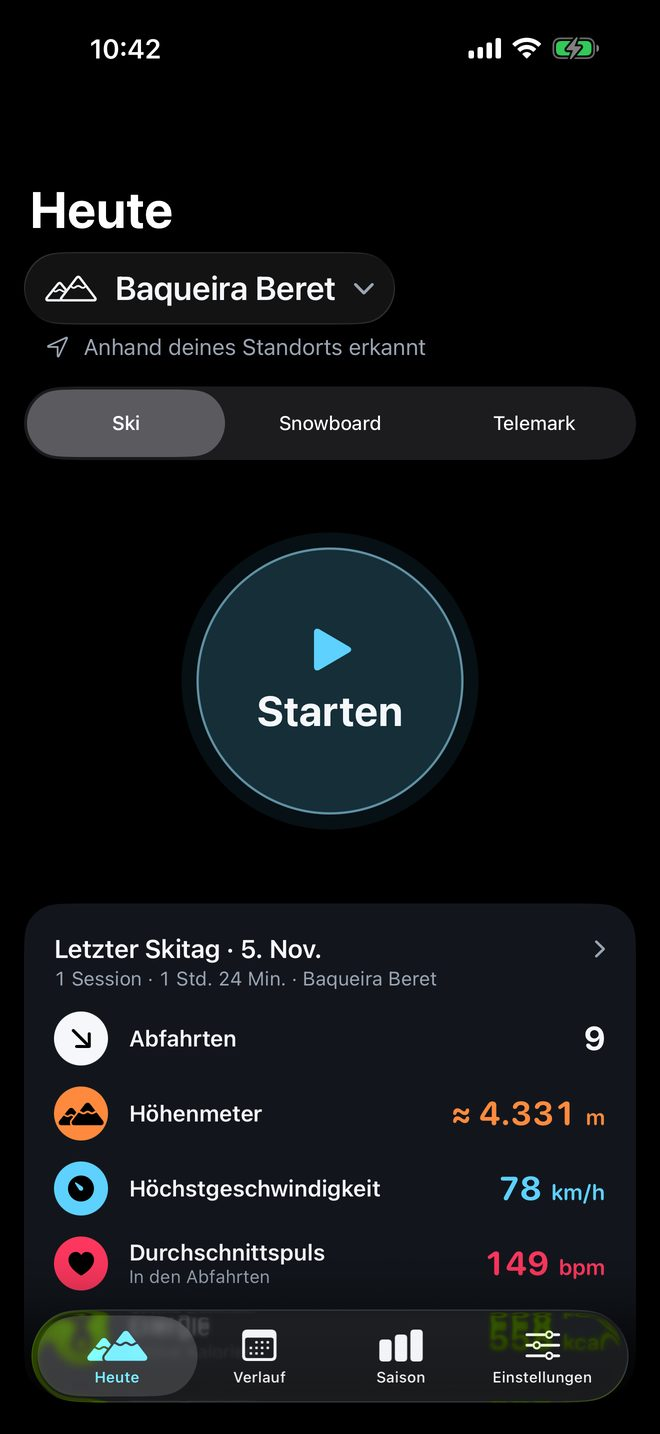
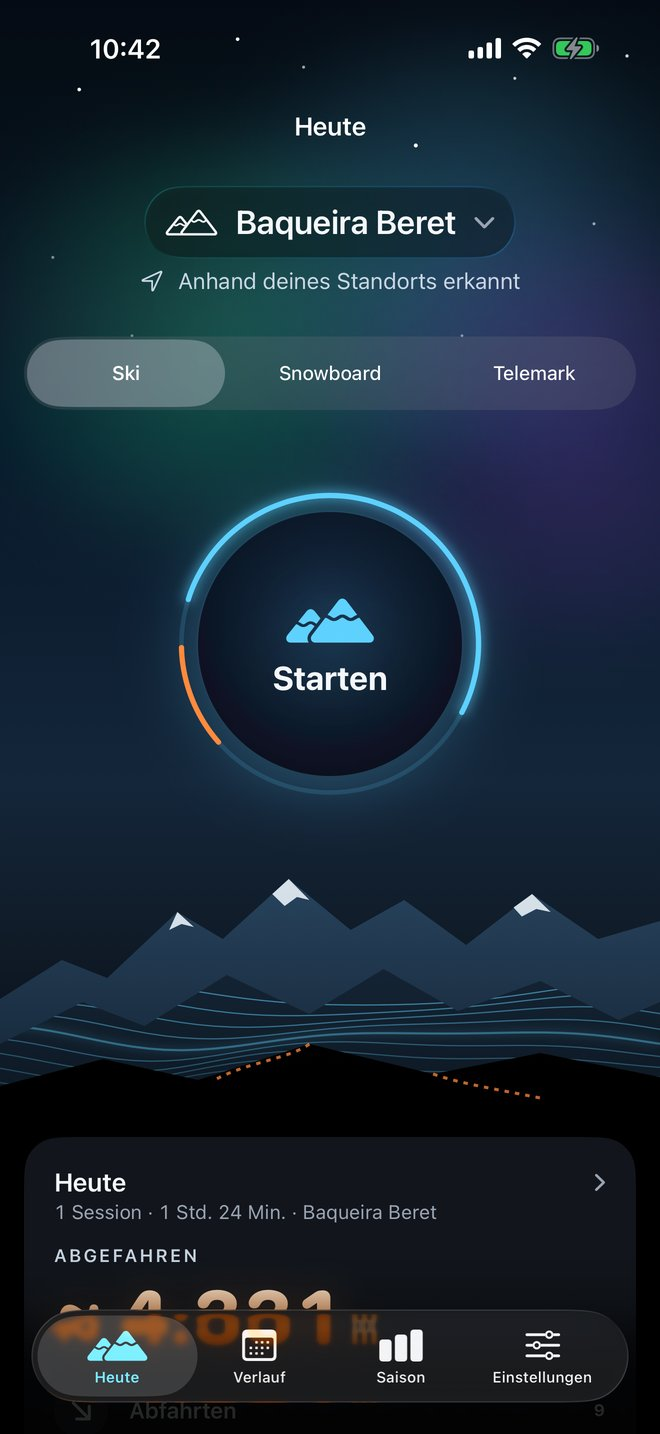
Capturas y textos de la 1.2 en es, en, de y fr
Claude-Session: https://claude.ai/code/session_014E4hTNDzoZ4NF3W67QEFpt

diff --git a/fr/index.html b/fr/index.html
@@ -124,7 +124,7 @@
       <p>Touchez « Démarrer » et oubliez-le. SnowTracker distingue tout seul les descentes et les remontées, et vous montre dans quelle descente vous êtes, à quelle vitesse vous allez, combien de dénivelé vous avez descendu et quelle est la pente. iPhone verrouillé, la session reste sur l’écran verrouillé, avec « Pause » toujours à portée de main.</p>
     </div>
     <div class="telefonos">
-      <div class="telefono"><img src="../img/en/01-sesion.jpg" alt="Session en cours : 71 km/h, 2:26:07, 4 163 m de dénivelé descendu et 11 descentes" loading="lazy"></div>
+      <div class="telefono"><img src="../img/fr/01-sesion.jpg" alt="Session en cours : 71 km/h, 2:26:07, 4 163 m de dénivelé descendu et 11 descentes" loading="lazy"></div>
     </div>
   </section>
 
@@ -135,7 +135,7 @@
       <p>Le parcours de la journée, coloré selon la vitesse, sur Apple Plans, chaque descente numérotée et, dessous, les pistes selon leur difficulté et les remontées. Touchez une descente et le plan vous la montre. Et pour la revivre, rejouez-la jusqu’à 240 fois plus vite.</p>
     </div>
     <div class="telefonos">
-      <div class="telefono"><img src="../img/en/02-mapa.jpg" alt="Plan satellite de la journée à Baqueira Beret avec les descentes et le parcours coloré selon la vitesse" loading="lazy"></div>
+      <div class="telefono"><img src="../img/fr/02-mapa.jpg" alt="Plan satellite de la journée à Baqueira Beret avec les descentes et le parcours coloré selon la vitesse" loading="lazy"></div>
     </div>
   </section>
 
@@ -159,7 +159,7 @@
       <p>Quand vous ouvrez l’app, « Aujourd’hui » vous montre dans quelle station vous êtes, ce que vous avez déjà skié aujourd’hui ou, si vous n’avez pas skié aujourd’hui, votre dernier jour : descentes, dénivelé, vitesse maximale et, avec l’Apple Watch, fréquence cardiaque et kcal. Touchez la station pour voir les stations à proximité ou en rechercher une autre. Choisissez ski, snowboard ou télémark, et c’est parti.</p>
     </div>
     <div class="telefonos">
-      <div class="telefono"><img src="../img/en/06-hoy.jpg" alt="Aujourd’hui : Baqueira Beret, détectée grâce à votre position, le bouton « Démarrer » et la carte du jour" loading="lazy"></div>
+      <div class="telefono"><img src="../img/fr/06-hoy.jpg" alt="Aujourd’hui : Baqueira Beret, détectée grâce à votre position, l’activité et le bouton « Démarrer » sur les montagnes" loading="lazy"></div>
     </div>
   </section>
 
@@ -167,11 +167,11 @@
     <div class="texto">
       <span class="antetitulo">Le résumé</span>
       <h2>Toute la journée <span>d’un coup d’œil.</span></h2>
-      <p>Vitesse maximale et moyenne, dénivelé, distance sur les pistes et sur les remontées, chaque descente avec sa vitesse et le profil d’altitude de la journée. Triez vos descentes par numéro ou par vitesse.</p>
+      <p>Vitesse maximale et moyenne, dénivelé, distance sur les pistes et sur les remontées, chaque descente avec sa vitesse et les pistes empruntées, la difficulté de la journée par couleurs et le profil d’altitude. Triez vos descentes par numéro ou par vitesse.</p>
     </div>
     <div class="telefonos">
-      <div class="telefono"><img src="../img/en/03-resumen.jpg" alt="Résumé du 14 février avec les mesures de la journée" loading="lazy"></div>
-      <div class="telefono"><img src="../img/en/04a-perfil.jpg" alt="Liste des descentes et profil d’altitude" loading="lazy"></div>
+      <div class="telefono"><img src="../img/fr/03-resumen.jpg" alt="Résumé du 14 février avec les mesures de la journée" loading="lazy"></div>
+      <div class="telefono"><img src="../img/fr/04a-perfil.jpg" alt="Liste des descentes avec la piste de chacune et profil d’altitude" loading="lazy"></div>
     </div>
   </section>
 
@@ -182,7 +182,7 @@
       <p>Avec l’Apple Watch, chaque journée garde votre fréquence cardiaque moyenne pendant les descentes, votre fréquence cardiaque maximale et vos kcal actives, ainsi qu’un graphique de votre fréquence cardiaque sur toute la journée avec les descentes en évidence.</p>
     </div>
     <div class="telefonos">
-      <div class="telefono"><img src="../img/en/05-salud.jpg" alt="Santé, samedi 14 février : 145 bpm en moyenne pendant les descentes, 166 bpm au maximum, 992 kcal actives et le graphique de la fréquence cardiaque" loading="lazy"></div>
+      <div class="telefono"><img src="../img/fr/05-salud.jpg" alt="Santé, samedi 14 février : 145 bpm en moyenne pendant les descentes, 166 bpm au maximum, 992 kcal actives et le graphique de la fréquence cardiaque" loading="lazy"></div>
     </div>
   </section>
 
@@ -190,11 +190,11 @@
     <div class="texto">
       <span class="antetitulo">La saison</span>
       <h2>Chaque mètre de dénivelé <span>compte.</span></h2>
-      <p>Jours de ski, descentes, distance et dénivelé cumulé de la saison, comparés à la précédente. Vos records, chacun avec son jour et sa station, et toutes les stations où vous avez skié.</p>
+      <p>Le dénivelé de toute la saison, comparé à la précédente à la même date, avec vos jours de ski, descentes et kilomètres. Votre temps sur la neige (en descente, sur les remontées et à l’arrêt), vos records en médailles qui ouvrent leur journée, les pistes que vous faites le plus et vos stations sur la carte.</p>
     </div>
     <div class="telefonos">
-      <div class="telefono"><img src="../img/en/07-temporada.jpg" alt="Saison 2025/26 : 86 669 m de dénivelé descendu, 21 jours de ski et 182 descentes" loading="lazy"></div>
-      <div class="telefono"><img src="../img/en/08-temporada-records.jpg" alt="Records et stations de la saison" loading="lazy"></div>
+      <div class="telefono"><img src="../img/fr/07-temporada.jpg" alt="Saison 2025/26 : 86 669 m de dénivelé descendu, 21 jours de ski et 182 descentes" loading="lazy"></div>
+      <div class="telefono"><img src="../img/fr/08-temporada-records.jpg" alt="Pistes de la saison par difficulté et vos stations sur la carte" loading="lazy"></div>
     </div>
   </section>
 
@@ -206,8 +206,8 @@
     <h2>Vous skiez, <span>votre montre aussi.</span></h2>
     <p>Démarrez sur l’iPhone et laissez-le dans la poche. Au poignet, vous voyez la descente en cours, votre vitesse, votre fréquence cardiaque et votre dénivelé, et vous mettez en pause ou verrouillez l’écran directement sur la montre. La fréquence cardiaque et les calories de chaque journée restent dans son résumé.</p>
     <div class="relojes">
-      <div class="reloj"><img src="../img/en/reloj-2-metricas.png" alt="Apple Watch : descente 12, 58 km/h, fréquence cardiaque 142 bpm et 5 860 m de dénivelé descendu" loading="lazy"></div>
-      <div class="reloj"><img src="../img/en/reloj-3-controles.png" alt="Apple Watch : Verrouiller, Terminer et Pause" loading="lazy"></div>
+      <div class="reloj"><img src="../img/fr/reloj-2-metricas.png" alt="Apple Watch : descente 12, 58 km/h, fréquence cardiaque 142 bpm et 5 860 m de dénivelé descendu" loading="lazy"></div>
+      <div class="reloj"><img src="../img/fr/reloj-3-controles.png" alt="Apple Watch : Verrouiller, Terminer et Pause" loading="lazy"></div>
     </div>
   </div>
 </section>
@@ -220,7 +220,7 @@
       <div class="tarjeta"><h3>Sur l’écran verrouillé</h3><p>La session en activité en direct, avec le dénivelé, la durée, les descentes et la vitesse maximale (avec la montre, aussi la fréquence cardiaque et les calories), et « Pause », sans ouvrir l’app.</p></div>
       <div class="tarjeta"><h3>Aucune session perdue</h3><p>Si l’app se ferme ou si votre iPhone s’éteint, la session est récupérée à votre retour. Elle vous prévient quand la batterie faiblit et, après 30 minutes sans bouger, vous demande si vous skiez encore.</p></div>
       <div class="tarjeta"><h3>Enregistrée dans Santé</h3><p>Chaque journée comme exercice dans l’app Santé, avec le parcours et, avec la montre, votre fréquence cardiaque et vos calories.</p></div>
-      <div class="tarjeta"><h3>Partagez le parcours</h3><p>Exportez le parcours de chaque journée en GPX pour l’utiliser dans d’autres apps.</p></div>
+      <div class="tarjeta"><h3>Partagez votre journée</h3><p>Une image de la journée ou de la saison, avec la carte et vos chiffres, ou le parcours en GPX pour d’autres apps.</p></div>
       <div class="tarjeta"><h3>Ski, snowboard ou télémark</h3><p>Choisissez votre sport ; les mesures sont les mêmes.</p></div>
       <div class="tarjeta"><h3>Vos unités</h3><p>Kilomètres ou miles, mètres ou pieds, selon votre région, et VoiceOver lit chaque valeur avec son unité.</p></div>
     </div>

diff --git a/de/index.html b/de/index.html
@@ -159,7 +159,7 @@
       <p>Wenn du die App öffnest, zeigt dir „Heute“, in welchem Skigebiet du bist, was du heute schon gefahren bist oder, wenn du heute nicht gefahren bist, deinen letzten Skitag: Abfahrten, Höhenmeter, Höchstgeschwindigkeit und, mit der Apple Watch, Puls und kcal. Tippe auf das Skigebiet, um Skigebiete in der Nähe zu sehen oder ein anderes zu suchen. Wähle Ski, Snowboard oder Telemark und leg los.</p>
     </div>
     <div class="telefonos">
-      <div class="telefono"><img src="../img/de/06-hoy.jpg" alt="Heute: Baqueira Beret, anhand deines Standorts erkannt, die Taste „Starten“ und die Karte des Tages" loading="lazy"></div>
+      <div class="telefono"><img src="../img/de/06-hoy.jpg" alt="Heute: Baqueira Beret, anhand deines Standorts erkannt, die Sportart und die Taste „Starten“ über den Bergen" loading="lazy"></div>
     </div>
   </section>
 
@@ -167,11 +167,11 @@
     <div class="texto">
       <span class="antetitulo">Die Übersicht</span>
       <h2>Der ganze Tag <span>auf einen Blick.</span></h2>
-      <p>Höchst- und Durchschnittsgeschwindigkeit, Höhenmeter, Strecke auf der Piste und im Lift, jede Abfahrt mit ihrer Geschwindigkeit und das Höhenprofil des Tages. Sortiere deine Abfahrten nach Nummer oder nach Geschwindigkeit.</p>
+      <p>Höchst- und Durchschnittsgeschwindigkeit, Höhenmeter, Strecke auf der Piste und im Lift, jede Abfahrt mit ihrer Geschwindigkeit und den Pisten, die sie genommen hat, die Schwierigkeit des Tages nach Farben und das Höhenprofil. Sortiere deine Abfahrten nach Nummer oder nach Geschwindigkeit.</p>
     </div>
     <div class="telefonos">
       <div class="telefono"><img src="../img/de/03-resumen.jpg" alt="Übersicht vom 14. Februar mit den Werten des Tages" loading="lazy"></div>
-      <div class="telefono"><img src="../img/de/04a-perfil.jpg" alt="Liste der Abfahrten und Höhenprofil" loading="lazy"></div>
+      <div class="telefono"><img src="../img/de/04a-perfil.jpg" alt="Liste der Abfahrten mit der Piste jeder Abfahrt und Höhenprofil" loading="lazy"></div>
     </div>
   </section>
 
@@ -190,11 +190,11 @@
     <div class="texto">
       <span class="antetitulo">Die Saison</span>
       <h2>Alle deine Höhenmeter <span>zählen.</span></h2>
-      <p>Skitage, Abfahrten, Strecke und die gesamten Höhenmeter der Saison, verglichen mit der vorherigen. Deine Rekorde, jeweils mit Tag und Skigebiet, und alle Skigebiete, in denen du gefahren bist.</p>
+      <p>Die Höhenmeter der ganzen Saison, verglichen mit der vorherigen zum selben Zeitpunkt, mit deinen Skitagen, Abfahrten und Kilometern. Deine Zeit im Schnee (bergab, im Lift und in Pausen), deine Rekorde als Medaillen, die ihren Tag öffnen, die Pisten, die du am häufigsten fährst, und deine Skigebiete auf der Karte.</p>
     </div>
     <div class="telefonos">
       <div class="telefono"><img src="../img/de/07-temporada.jpg" alt="Saison 2025/26: 86.669 m Höhenmeter bergab, 21 Skitage und 182 Abfahrten" loading="lazy"></div>
-      <div class="telefono"><img src="../img/de/08-temporada-records.jpg" alt="Rekorde und Skigebiete der Saison" loading="lazy"></div>
+      <div class="telefono"><img src="../img/de/08-temporada-records.jpg" alt="Pisten der Saison nach Schwierigkeit und deine Skigebiete auf der Karte" loading="lazy"></div>
     </div>
   </section>
 
@@ -220,7 +220,7 @@
       <div class="tarjeta"><h3>Auf dem Sperrbildschirm</h3><p>Die Session als Live-Aktivität, mit Höhenmetern, Zeit, Abfahrten und Höchstgeschwindigkeit (mit der Uhr auch Puls und Kalorien), und „Pause“, ohne die App zu öffnen.</p></div>
       <div class="tarjeta"><h3>Keine Session geht verloren</h3><p>Wird die App geschlossen oder schaltet sich dein iPhone aus, wird die Session wiederhergestellt, wenn du zurückkommst. Sie warnt dich, wenn der Akku knapp wird, und fragt nach 30 Minuten ohne Bewegung, ob du noch fährst.</p></div>
       <div class="tarjeta"><h3>In Health sichern</h3><p>Jeder Tag als Training in der Health-App, mit der Route und, mit der Uhr, deinem Puls und deinen Kalorien.</p></div>
-      <div class="tarjeta"><h3>Route teilen</h3><p>Exportiere die Route jedes Tages als GPX, um sie in anderen Apps zu nutzen.</p></div>
+      <div class="tarjeta"><h3>Teile deinen Tag</h3><p>Ein Bild des Tages oder der Saison mit der Karte und deinen Zahlen, oder die Route als GPX für andere Apps.</p></div>
       <div class="tarjeta"><h3>Ski, Snowboard oder Telemark</h3><p>Wähle deine Sportart; die Werte werden gleich gemessen.</p></div>
       <div class="tarjeta"><h3>Deine Einheiten</h3><p>Kilometer oder Meilen, Meter oder Fuß, je nach deiner Region, und VoiceOver liest jeden Wert mit seiner Einheit vor.</p></div>
     </div>

diff --git a/index.html b/index.html
@@ -159,7 +159,7 @@
       <p>Al abrir la app, Hoy te dice en qué estación estás, lo que llevas en el día o, si hoy no has esquiado, tu último día: bajadas, desnivel, velocidad máxima y, con Apple Watch, pulso y kcal. Toca la estación para ver las cercanas o buscar otra. Elige esquí, snowboard o telemark y empieza.</p>
     </div>
     <div class="telefonos">
-      <div class="telefono"><img src="img/06-hoy.jpg" alt="Hoy: Baqueira Beret, detectada por tu ubicación, el botón Empezar y la tarjeta del día" loading="lazy"></div>
+      <div class="telefono"><img src="img/06-hoy.jpg" alt="Hoy: Baqueira Beret, detectada por tu ubicación, la actividad y el botón Empezar sobre la cordillera" loading="lazy"></div>
     </div>
   </section>
 
@@ -167,11 +167,11 @@
     <div class="texto">
       <span class="antetitulo">El resumen</span>
       <h2>Todo el día, <span>de un vistazo.</span></h2>
-      <p>Velocidad máxima y media, desnivel, distancia esquiando y en remontes, cada bajada con su velocidad y el perfil de altitud del día. Ordena las bajadas por número o por velocidad.</p>
+      <p>Velocidad máxima y media, desnivel, distancia esquiando y en remontes, cada bajada con su velocidad y las pistas por las que fue, la dificultad del día por colores y el perfil de altitud. Ordena las bajadas por número o por velocidad.</p>
     </div>
     <div class="telefonos">
       <div class="telefono"><img src="img/03-resumen.jpg" alt="Resumen del 14 de febrero con las cifras del día" loading="lazy"></div>
-      <div class="telefono"><img src="img/04a-perfil.jpg" alt="Lista de bajadas y perfil de altitud" loading="lazy"></div>
+      <div class="telefono"><img src="img/04a-perfil.jpg" alt="Lista de bajadas con la pista de cada una y perfil de altitud" loading="lazy"></div>
     </div>
   </section>
 
@@ -190,11 +190,11 @@
     <div class="texto">
       <span class="antetitulo">La temporada</span>
       <h2>Cada metro <span>cuenta.</span></h2>
-      <p>Días, bajadas, kilómetros y el desnivel acumulado de toda la temporada, comparado con la anterior. Tus récords, con el día y la estación de cada uno, y todas las estaciones donde has esquiado.</p>
+      <p>El desnivel de toda la temporada, comparado con la anterior a estas alturas, con tus días, bajadas y kilómetros. Tu tiempo en la nieve (bajando, en remontes y parado), tus récords como medallas que abren su día, las pistas que más repites y tus estaciones en el mapa.</p>
     </div>
     <div class="telefonos">
-      <div class="telefono"><img src="img/07-temporada.jpg" alt="Temporada 2025/26: 86.669 m de desnivel, 21 días y 182 bajadas" loading="lazy"></div>
-      <div class="telefono"><img src="img/08-temporada-records.jpg" alt="Récords de la temporada y estaciones" loading="lazy"></div>
+      <div class="telefono"><img src="img/07-temporada.jpg" alt="Temporada 2025/26: 86.669 m de desnivel bajado, 21 días, 182 bajadas, 627,2 km, 6 estaciones y tu tiempo en la nieve" loading="lazy"></div>
+      <div class="telefono"><img src="img/08-temporada-records.jpg" alt="Pistas de la temporada por dificultad y tus estaciones en el mapa" loading="lazy"></div>
     </div>
   </section>
 
@@ -220,7 +220,7 @@
       <div class="tarjeta"><h3>En la pantalla de bloqueo</h3><p>La sesión en una actividad en vivo, con el desnivel, el tiempo, las bajadas y la velocidad máxima (y, con el reloj, el pulso y las kcal), y Pausar sin abrir la app.</p></div>
       <div class="tarjeta"><h3>Nunca pierdes una sesión</h3><p>Si la app se cierra o el iPhone se apaga, la sesión se recupera al volver. Te avisa cuando queda poca batería y, si llevas 30 minutos sin moverte, te pregunta si sigues esquiando.</p></div>
       <div class="tarjeta"><h3>Guarda en Salud</h3><p>Cada día, como entrenamiento en la app Salud, con la ruta y, con el reloj, el pulso y las kcal.</p></div>
-      <div class="tarjeta"><h3>Comparte la ruta</h3><p>Exporta la ruta de cualquier día en GPX para llevarla a otras apps.</p></div>
+      <div class="tarjeta"><h3>Comparte tu día</h3><p>Una imagen del día o de la temporada, con el mapa y tus cifras, o la ruta en GPX para llevarla a otras apps.</p></div>
       <div class="tarjeta"><h3>Esquí, snowboard o telemark</h3><p>Elige tu actividad; las cifras se miden igual.</p></div>
       <div class="tarjeta"><h3>Tus unidades</h3><p>Kilómetros o millas, metros o pies, según tu región, y VoiceOver lee cada cifra con su unidad.</p></div>
     </div>

diff --git a/en/index.html b/en/index.html
@@ -159,7 +159,7 @@
       <p>When you open the app, Today tells you which resort you’re at, what you’ve done so far today or, if you haven’t skied today, your last day: runs, vertical, max speed and, with Apple Watch, heart rate and kcal. Tap the resort to see nearby ones or search for another. Choose ski, snowboard or telemark and start.</p>
     </div>
     <div class="telefonos">
-      <div class="telefono"><img src="../img/en/06-hoy.jpg" alt="Today: Baqueira Beret, detected from your location, the Start button and the day card" loading="lazy"></div>
+      <div class="telefono"><img src="../img/en/06-hoy.jpg" alt="Today: Baqueira Beret, detected from your location, the activity and the Start button over the mountains" loading="lazy"></div>
     </div>
   </section>
 
@@ -167,11 +167,11 @@
     <div class="texto">
       <span class="antetitulo">The summary</span>
       <h2>The whole day, <span>at a glance.</span></h2>
-      <p>Max and average speed, vertical, distance skiing and on lifts, every run with its speed and the day’s altitude profile. Sort your runs by number or by speed.</p>
+      <p>Max and average speed, vertical, distance skiing and on lifts, every run with its speed and the pistes it followed, the day’s difficulty by colour and the altitude profile. Sort your runs by number or by speed.</p>
     </div>
     <div class="telefonos">
       <div class="telefono"><img src="../img/en/03-resumen.jpg" alt="Summary of February 14 with the day’s stats" loading="lazy"></div>
-      <div class="telefono"><img src="../img/en/04a-perfil.jpg" alt="List of runs and altitude profile" loading="lazy"></div>
+      <div class="telefono"><img src="../img/en/04a-perfil.jpg" alt="List of runs with the piste of each one and altitude profile" loading="lazy"></div>
     </div>
   </section>
 
@@ -190,11 +190,11 @@
     <div class="texto">
       <span class="antetitulo">The season</span>
       <h2>All your vertical <span>adds up.</span></h2>
-      <p>Days, runs, distance and the total vertical of the whole season, compared with the previous one. Your records, each with its day and resort, and every resort where you’ve skied.</p>
+      <p>The whole season’s vertical, compared with last season at this point, with your days, runs and distance. Your time on the snow (skiing, on lifts and stopped), your records as medals that open their day, the pistes you ski most and your resorts on a map.</p>
     </div>
     <div class="telefonos">
       <div class="telefono"><img src="../img/en/07-temporada.jpg" alt="Season 2025/26: 284,347 ft of vertical, 21 days and 182 runs" loading="lazy"></div>
-      <div class="telefono"><img src="../img/en/08-temporada-records.jpg" alt="Season records and resorts" loading="lazy"></div>
+      <div class="telefono"><img src="../img/en/08-temporada-records.jpg" alt="Season pistes by difficulty and your resorts on a map" loading="lazy"></div>
     </div>
   </section>
 
@@ -220,7 +220,7 @@
       <div class="tarjeta"><h3>On the Lock Screen</h3><p>The session in a Live Activity, with vertical, time, runs and max speed (plus heart rate and calories with the watch), and Pause without opening the app.</p></div>
       <div class="tarjeta"><h3>You never lose a session</h3><p>If the app closes or your iPhone turns off, the session is recovered when you come back. It lets you know when the battery is running low and, after 30 minutes without moving, asks if you’re still skiing.</p></div>
       <div class="tarjeta"><h3>Save to Health</h3><p>Each day, as a workout in the Health app, with the route and, with the watch, your heart rate and calories.</p></div>
-      <div class="tarjeta"><h3>Share the route</h3><p>Export any day’s route as GPX to use it in other apps.</p></div>
+      <div class="tarjeta"><h3>Share your day</h3><p>An image of the day or the season, with the map and your numbers, or the route as GPX to use it in other apps.</p></div>
       <div class="tarjeta"><h3>Ski, snowboard or telemark</h3><p>Choose your activity; the stats are measured the same way.</p></div>
       <div class="tarjeta"><h3>Your units</h3><p>Kilometers or miles, meters or feet, depending on your region, and VoiceOver reads each number with its unit.</p></div>
     </div>

diff --git a/README.md b/README.md
@@ -9,12 +9,12 @@ Política de privacidad y soporte de la app SnowTracker, publicadas con GitHub P
 | Privacidad | https://marcosvelascogithub.github.io/snowtracker-web/privacidad/ | https://marcosvelascogithub.github.io/snowtracker-web/en/privacy/ | (enlaza a la inglesa) | (enlaza a la inglesa) |
 | Datos de OpenStreetMap (ODbL) | https://marcosvelascogithub.github.io/snowtracker-web/datos-osm/ | https://marcosvelascogithub.github.io/snowtracker-web/en/osm-data/ | https://marcosvelascogithub.github.io/snowtracker-web/de/osm-daten/ | https://marcosvelascogithub.github.io/snowtracker-web/fr/donnees-osm/ |
 
-Las capturas de la portada son las capturas en bruto del iPhone de 6,9" de `docs/app-store/` del repositorio de la app, a la mitad de tamaño: en `img/`, en español, y en `img/en/`, en inglés. La cabecera (`img/cabecera.jpg`, 2400 × 1029) no lleva texto y vale para las dos: sale de `cabecera()` de `docs/app-store/scripts/componer-cabecera.py` con el titular vacío.
+Las capturas de la portada son las capturas en bruto del iPhone de 6,9" de `docs/app-store/` del repositorio de la app, a la mitad de tamaño: en `img/`, en español, y en `img/en/`, `img/de/` e `img/fr/`, en inglés, alemán y francés. La cabecera (`img/cabecera.jpg`, 2400 × 1029) no lleva texto y vale para las dos: sale de `cabecera()` de `docs/app-store/scripts/componer-cabecera.py` con el titular vacío.
 
 Las cifras de estaciones de la portada (total, países y los seis países con más estaciones) salen de `datos/estaciones.json`; se actualizan cuando cambia la lista.
 
 Los ficheros de `datos-osm/` son los de `SnowTracker/Pistes/` de la app, publicados por la licencia ODbL (apartado 4.6). Se sustituyen con cada versión que regenere los datos, y se actualiza la fecha del extracto en las dos páginas.
 
-La portada en alemán (`de/`) usa de momento las capturas en inglés (`img/en/`), con millas y pies, hasta que haya capturas en alemán (marcosvelascogithub/snowtracker#295). Los países de las estaciones en alemán (`country_de` de `datos/estaciones.json`) salen de `NAME_DE` de Natural Earth; `name_de` está vacío hasta que el script de la app lea `name:de` de OpenStreetMap.
+La portada en alemán (`de/`) usa las capturas en alemán (`img/de/`). Los países de las estaciones en alemán (`country_de` de `datos/estaciones.json`) salen de `NAME_DE` de Natural Earth; `name_de` está vacío hasta que el script de la app lea `name:de` de OpenStreetMap.
 
-La portada en francés (`fr/`) usa de momento las capturas en inglés (`img/en/`) hasta que haya capturas en francés (versión 1.2 de la app). Los nombres y países en francés (`name_fr` y `country_fr` de `datos/estaciones.json`) salen de `name:fr` de OpenStreetMap y de `NAME_FR` de Natural Earth. La insignia `img/app-store/fr.svg` es la oficial de Apple (toolbox.marketingtools.apple.com, `fr-fr`), de la misma fuente que la alemana.
+La portada en francés (`fr/`) usa las capturas en francés (`img/fr/`), de la versión 1.2 de la app. Los nombres y países en francés (`name_fr` y `country_fr` de `datos/estaciones.json`) salen de `name:fr` de OpenStreetMap y de `NAME_FR` de Natural Earth. La insignia `img/app-store/fr.svg` es la oficial de Apple (toolbox.marketingtools.apple.com, `fr-fr`), de la misma fuente que la alemana.
